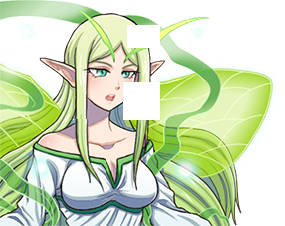
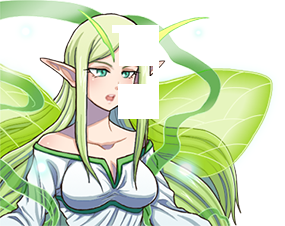
Fixing some characters

diff --git a/Bust Config.rb b/Bust Config.rb
@@ -170,8 +170,8 @@ Busty::BASE_CONFIG.merge!({
   },
   "Antiala" => {
     bust_scale: 0.75,
-    face_offset_x: 73,
-    face_offset_y: 28,
+    face_offset_x: 69,
+    face_offset_y: 50,
   },
   # further edit necessary?
   "Balia" => {
@@ -424,6 +424,11 @@ Busty::BASE_CONFIG.merge!({
     bust_scale: 0.75,
     face_offset_x: 52,
     face_offset_y: 49,
+  },
+  "Riala2" => {
+    bust_scale: 0.70,
+    face_offset_x: 50,
+    face_offset_y: 43,
   },
   "Robin blond" => {
     bust_scale: 0.75,
